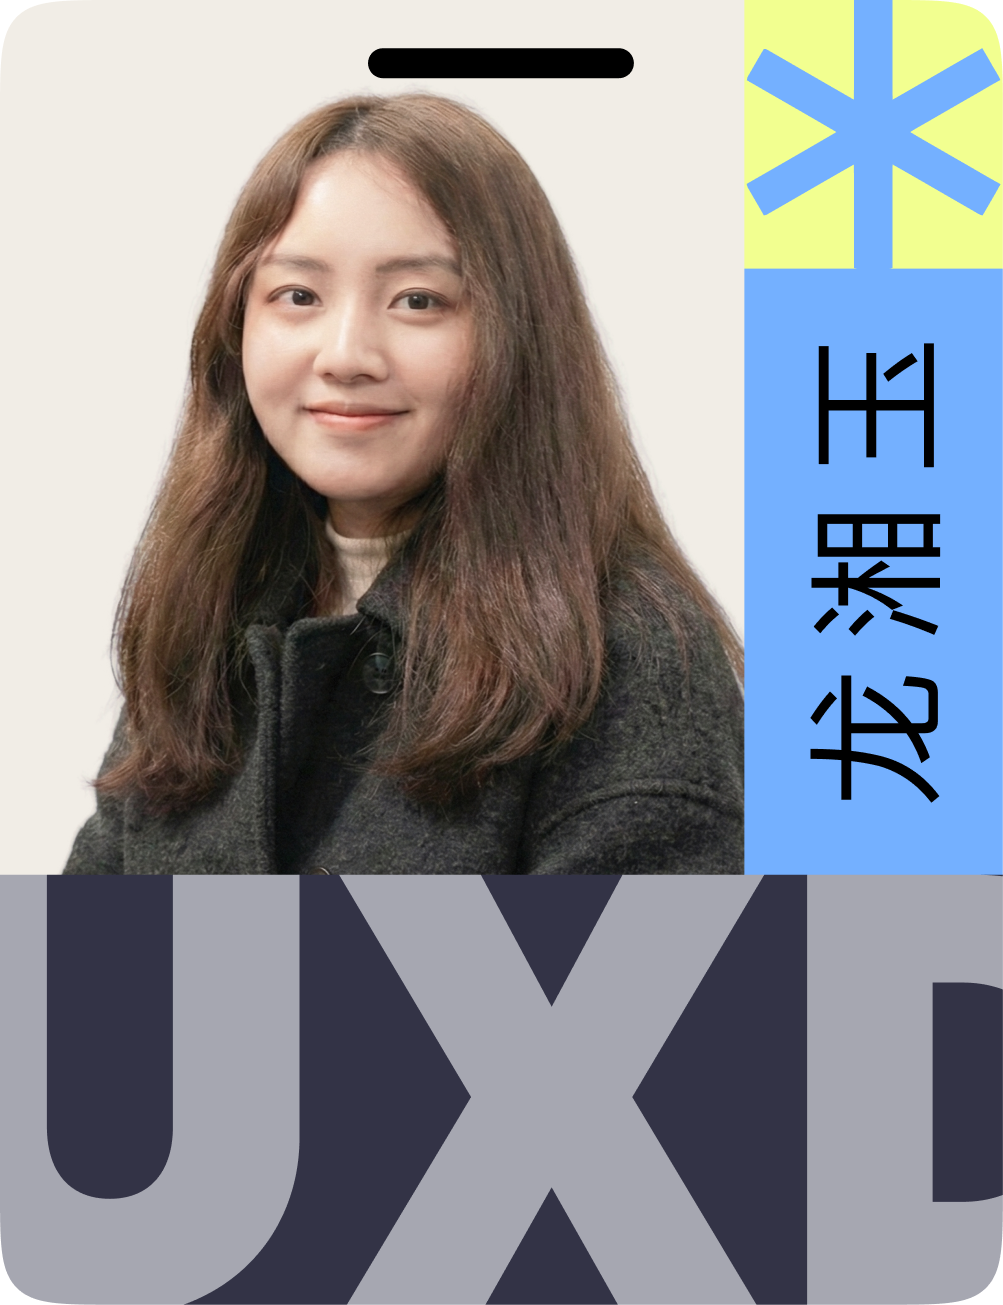
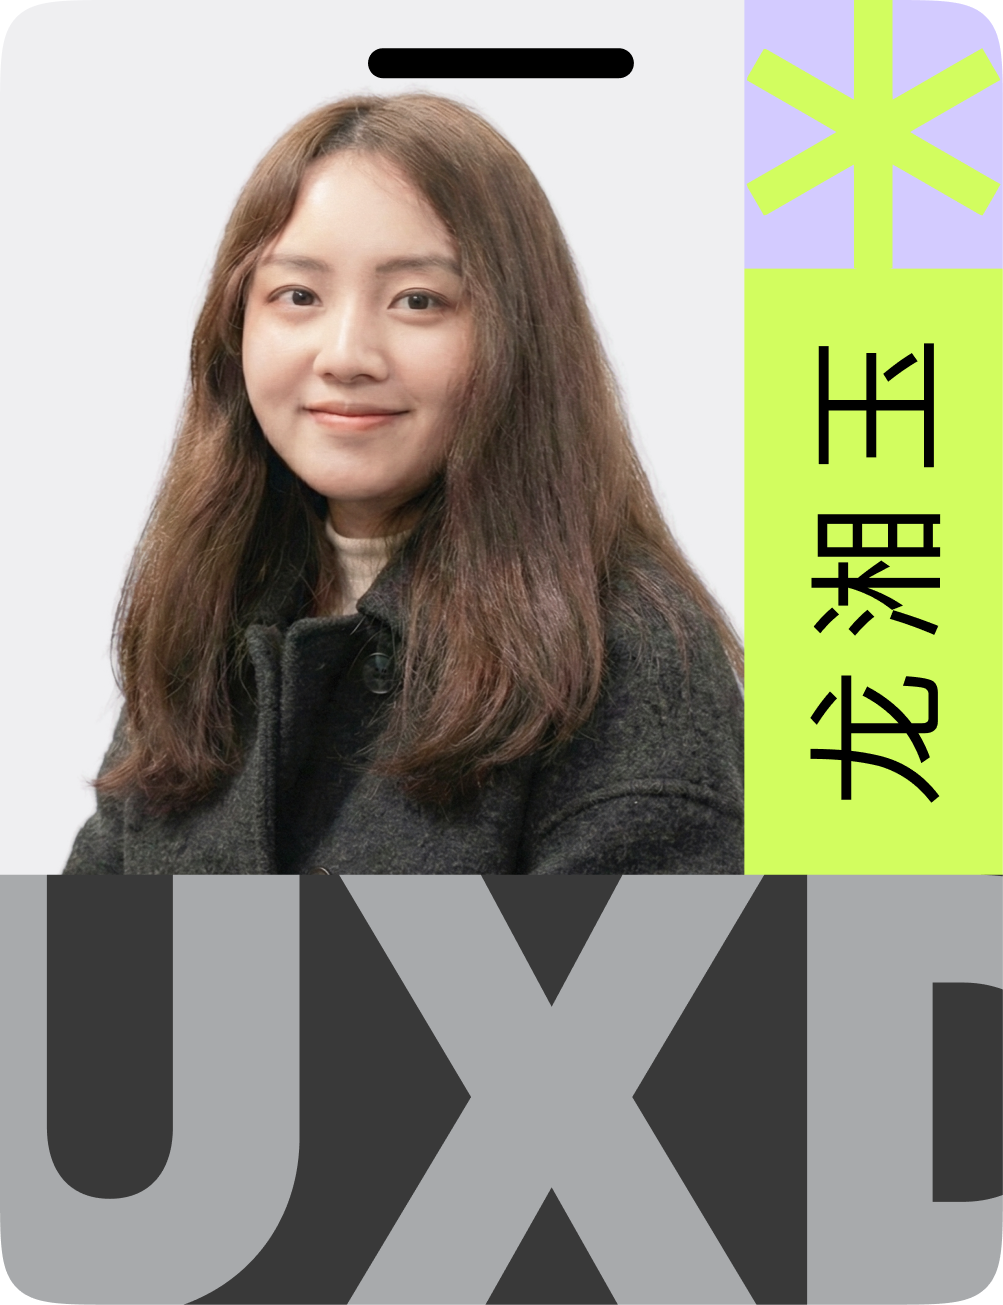
微调“当地时间”轻拟物效果

Changed region(s): [[0.7418, 0.0, 1.0, 0.6743]]

diff --git a/index.html b/index.html
@@ -89,10 +89,10 @@
           </article>
         </div>
       </section>
-      <div class="hero-divider" aria-hidden="true">
+      <div class="hero-divider reveal" aria-hidden="true">
         <span>Portfolio 2026</span>
       </div>
-      <section class="about-bento-section" id="about" aria-label="关于我">
+      <section class="about-bento-section reveal" id="about" aria-label="关于我">
         <div class="section-eyebrow about-bento-heading">关于我的一点点</div>
         <div class="about-bento-inner">
           <article class="about-bento-card about-bento-card-tall about-bento-card-method">
@@ -149,11 +149,11 @@
                   <span class="about-ai-tool"><span class="about-ai-tool-name">Blender</span><span class="about-ai-icon"><img src="./assets/tool-icons/Blender.png" alt="" /></span></span>
                   <span class="about-ai-tool"><span class="about-ai-tool-name">C4D</span><span class="about-ai-icon"><img src="./assets/tool-icons/C4D.png" alt="" /></span></span>
                   <span class="about-ai-tool"><span class="about-ai-tool-name">Swift UI</span><span class="about-ai-icon"><img src="./assets/tool-icons/Swift%20UI.png" alt="" /></span></span>
-                  <span class="about-ai-tool"><span class="about-ai-tool-name">CSS</span><span class="about-ai-icon"><img src="./assets/tool-icons/css.svg" alt="" /></span></span>
+                  <span class="about-ai-tool"><span class="about-ai-tool-name">Three.js</span><span class="about-ai-icon"><img src="./assets/tool-icons/threejs.png" alt="" /></span></span>
+                  <span class="about-ai-tool"><span class="about-ai-tool-name">Comfy</span><span class="about-ai-icon"><img src="./assets/tool-icons/Comfy.png" alt="" /></span></span>
+                  <span class="about-ai-tool"><span class="about-ai-tool-name">Codex</span><span class="about-ai-icon"><img src="./assets/tool-icons/Codex.png" alt="" /></span></span>
                   <span class="about-ai-tool"><span class="about-ai-tool-name">Vercel</span><span class="about-ai-icon"><img src="./assets/tool-icons/Vercel.png" alt="" /></span></span>
                   <span class="about-ai-tool"><span class="about-ai-tool-name">Cursor</span><span class="about-ai-icon"><img src="./assets/tool-icons/cursor.png" alt="" /></span></span>
-                  <span class="about-ai-tool"><span class="about-ai-tool-name">Java Script</span><span class="about-ai-icon"><img src="./assets/tool-icons/javascript.png" alt="" /></span></span>
-                  <span class="about-ai-tool"><span class="about-ai-tool-name">Codex</span><span class="about-ai-icon"><img src="./assets/tool-icons/Codex.png" alt="" /></span></span>
                 </div>
               </div>
             </div>
@@ -241,7 +241,7 @@
                 <strong>BBHust</strong>
                 <span>Hust 校园论坛</span>
                 <div class="about-grounded-tags">
-                  <small>4.0 ★</small>
+                  <small class="about-grounded-rating">4.0 <svg width="11" height="11" viewBox="0 0 11 11" fill="none" xmlns="http://www.w3.org/2000/svg" aria-hidden="true"><path d="M4.28205 0.655613C4.8291 -0.218532 6.10239 -0.218532 6.64944 0.655613L7.49026 1.99918C7.6819 2.30541 7.98476 2.52545 8.33522 2.61308L9.87286 2.99756C10.8733 3.24771 11.2667 4.45869 10.6044 5.24909L9.58644 6.46394C9.35442 6.74083 9.23874 7.09687 9.2637 7.45725L9.37319 9.03844C9.44442 10.0672 8.41431 10.8156 7.45793 10.43L5.98796 9.83722C5.65292 9.70212 5.27857 9.70212 4.94353 9.83722L3.47356 10.43C2.51718 10.8156 1.48707 10.0672 1.5583 9.03844L1.66779 7.45725C1.69275 7.09687 1.57706 6.74083 1.34505 6.46394L0.327066 5.24909C-0.335247 4.45869 0.058221 3.24771 1.05863 2.99756L2.59626 2.61308C2.94672 2.52545 3.24959 2.30541 3.44123 1.99918L4.28205 0.655613Z" fill="#3A3A3A"/></svg></small>
                   <small>社交</small>
                 </div>
               </div>
@@ -304,7 +304,7 @@
           </article>
         </div>
       </section>
-      <section class="works-showcase" id="works">
+      <section class="works-showcase reveal" id="works">
         <div class="works-showcase-inner">
           <div class="section-eyebrow">近期作品</div>
           <div class="works-grid">
@@ -435,7 +435,7 @@
 
           </div>
 
-          <section class="knowledge-section" id="knowledge" aria-label="个人知识库">
+          <section class="knowledge-section reveal" id="knowledge" aria-label="个人知识库">
             <div class="section-eyebrow knowledge-heading">个人知识库</div>
             <div class="knowledge-list">
               <button class="knowledge-item" type="button" data-knowledge-entry="001" data-cursor-icon="view">
@@ -483,7 +483,7 @@
         </div>
       </section>
 
-      <section class="placeholder-section" id="contact">
+      <section class="placeholder-section reveal" id="contact">
         <div class="contact-footer">
           <p class="contact-footer-eyebrow">欢迎联系我</p>
           <div class="contact-footer-layout">

diff --git a/script.js b/script.js
@@ -19,6 +19,8 @@ const guestbookList = document.querySelector('[data-guestbook-list]');
 const guestbookPaper = document.querySelector('[data-guestbook-paper]');
 const guestbookSubmitTrigger = document.querySelector('[data-guestbook-submit-trigger]');
 const aiDock = document.querySelector('[data-ai-dock]');
+const aiToolCard = document.querySelector('.about-bento-card-ai');
+const aiToolRows = [...document.querySelectorAll('.about-ai-tools-row')];
 const interestCard = document.querySelector('[data-interest-card]');
 const interestStage = document.querySelector('[data-interest-stage]');
 const interestLabels = [...document.querySelectorAll('[data-interest-label]')];
@@ -63,6 +65,7 @@ const versionUpdate = document.querySelector('[data-version-update]');
 const versionUpdateValue = document.querySelector('[data-version-update-value]');
 const versionUpdateRefresh = document.querySelector('[data-version-update-refresh]');
 const cursorIcon = document.querySelector('.custom-cursor-icon');
+const revealItems = [...document.querySelectorAll('.reveal')];
 const aiChatToggle = document.querySelector('[data-ai-chat-toggle]');
 const aiAgentCard = document.querySelector('[data-agent-chat-card]');
 const aiChatSidebar = document.querySelector('[data-ai-chat-sidebar]');
@@ -180,6 +183,98 @@ const showSiteToast = (message) => {
     siteToast.classList.remove('is-visible');
   }, 1400);
 };
+
+aiToolRows.forEach((row) => {
+  if (row.dataset.marqueeReady === 'true') {
+    return;
+  }
+
+  row.dataset.marqueeReady = 'true';
+  [...row.children].forEach((item) => {
+    const clone = item.cloneNode(true);
+    clone.setAttribute('aria-hidden', 'true');
+    row.append(clone);
+  });
+});
+
+if (aiToolCard && aiToolRows.length) {
+  const marqueeStates = aiToolRows.map((row, index) => ({
+    row,
+    halfWidth: Math.max(1, row.scrollWidth / 2),
+    progress: index === 1 ? Math.max(1, row.scrollWidth / 2) : 0,
+    velocity: 0,
+    targetVelocity: 0,
+    direction: index === 1 ? 1 : -1,
+    baseOffset: index === 1 ? -12 : 0,
+  }));
+  let marqueeFrame = 0;
+  let lastMarqueeTime = 0;
+
+  const wrapMarquee = (value, size) => ((value % size) + size) % size;
+
+  const updateMarqueeWidths = () => {
+    marqueeStates.forEach((state) => {
+      state.halfWidth = Math.max(1, state.row.scrollWidth / 2);
+    });
+  };
+
+  const renderMarquee = (state) => {
+    const wrapped = wrapMarquee(state.progress, state.halfWidth);
+    const x =
+      state.direction < 0
+        ? -wrapped + state.baseOffset
+        : -state.halfWidth + wrapped + state.baseOffset;
+
+    state.row.style.setProperty('--marquee-x', `${x}px`);
+  };
+
+  const tickMarquee = (time) => {
+    const delta = lastMarqueeTime ? Math.min(0.04, (time - lastMarqueeTime) / 1000) : 0;
+    lastMarqueeTime = time;
+    let keepRunning = false;
+
+    marqueeStates.forEach((state) => {
+      state.velocity += (state.targetVelocity - state.velocity) * 0.075;
+
+      if (Math.abs(state.velocity) < 0.08 && state.targetVelocity === 0) {
+        state.velocity = 0;
+      }
+
+      state.progress += state.velocity * delta;
+      renderMarquee(state);
+
+      if (state.velocity !== 0 || state.targetVelocity !== 0) {
+        keepRunning = true;
+      }
+    });
+
+    if (keepRunning) {
+      marqueeFrame = window.requestAnimationFrame(tickMarquee);
+    } else {
+      marqueeFrame = 0;
+      lastMarqueeTime = 0;
+    }
+  };
+
+  const startMarquee = () => {
+    if (!marqueeFrame) {
+      lastMarqueeTime = 0;
+      marqueeFrame = window.requestAnimationFrame(tickMarquee);
+    }
+  };
+
+  const setMarqueeActive = (isActive) => {
+    marqueeStates.forEach((state) => {
+      state.targetVelocity = isActive ? 54 : 0;
+    });
+    startMarquee();
+  };
+
+  marqueeStates.forEach(renderMarquee);
+  aiToolCard.addEventListener('mouseenter', () => setMarqueeActive(true));
+  aiToolCard.addEventListener('mouseleave', () => setMarqueeActive(false));
+  window.addEventListener('resize', updateMarqueeWidths);
+}
 
 const rgbToHsl = (r, g, b) => {
   const rn = r / 255;
@@ -2886,6 +2981,28 @@ if (hero && heroTitle) {
   );
 
   heroObserver.observe(hero);
+}
+
+if (revealItems.length) {
+  const prefersReducedMotion = window.matchMedia('(prefers-reduced-motion: reduce)').matches;
+
+  if (prefersReducedMotion) {
+    revealItems.forEach((item) => item.classList.add('show'));
+  } else {
+    const revealObserver = new IntersectionObserver(
+      (entries) => {
+        entries.forEach((entry) => {
+          entry.target.classList.toggle('show', entry.isIntersecting);
+        });
+      },
+      {
+        rootMargin: '0px 0px 12% 0px',
+        threshold: 0.04,
+      }
+    );
+
+    revealItems.forEach((item) => revealObserver.observe(item));
+  }
 }
 
 updateBounds();

diff --git a/styles.css b/styles.css
@@ -112,6 +112,17 @@ main {
   transform: translateX(var(--layout-shift-x));
 }
 
+.reveal {
+  opacity: 0;
+  transform: translateY(16px);
+  transition: opacity 0.6s ease, transform 0.6s ease;
+}
+
+.reveal.show {
+  opacity: 1;
+  transform: translateY(0);
+}
+
 button,
 a,
 [data-card],
@@ -214,6 +225,14 @@ a,
 
   .custom-cursor {
     display: none;
+  }
+}
+
+@media (prefers-reduced-motion: reduce) {
+  .reveal {
+    opacity: 1;
+    transform: none;
+    transition: none;
   }
 }
 
@@ -546,7 +565,7 @@ a,
 .hero-divider {
   position: relative;
   width: min(calc(100% - (var(--page-gutter) * 2)), var(--content-width));
-  margin: 12px auto 62px;
+  margin: -42px auto 18px;
   padding-inline: var(--content-inline-pad);
   display: grid;
   place-items: center;
@@ -575,8 +594,8 @@ a,
 
 .about-bento-section {
   --about-bento-gap: 8px;
-  padding: 32px var(--page-gutter) 52px;
-  background: #f0f0f2;
+  padding: 0 var(--page-gutter) 92px;
+  background: #ffffff;
 }
 
 .section-eyebrow {
@@ -614,7 +633,9 @@ a,
   border: 0;
   border-radius: 28px;
   background: #ffffff;
-  box-shadow: none;
+  box-shadow:
+    0 10px 28px rgba(12, 12, 12, 0.04),
+    0 1px 6px rgba(12, 12, 12, 0.034);
   transition: background-color 0.24s ease;
 }
 
@@ -689,11 +710,19 @@ a,
   grid-template-rows: 88px minmax(0, 1fr);
   align-items: start;
   padding: 8px;
-  background: #d3cbff;
+  border-radius: 28.626px;
+  border: 2px solid #e6e1fc;
+  border: 2px solid color(display-p3 0.8968 0.8824 0.9784);
+  background: #d5cbff;
+  background: color(display-p3 0.8276 0.7971 1);
+  box-shadow:
+    -4px -4px 4px 0 #b8adea inset,
+    4px 4px 4px 0 rgba(255, 255, 255, 0.4) inset;
 }
 
 .about-bento-card-time:hover {
-  background: #d3cbff;
+  background: #d5cbff;
+  background: color(display-p3 0.8276 0.7971 1);
 }
 
 .about-time-display {
@@ -1334,10 +1363,12 @@ a,
   align-items: center;
   gap: 6px;
   width: max-content;
+  transform: translateX(var(--marquee-x, 0px));
+  will-change: transform;
 }
 
 .about-ai-tools-row:nth-child(2) {
-  transform: translateX(-12px);
+  --marquee-x: -12px;
 }
 
 .about-ai-icon {
@@ -2035,6 +2066,12 @@ a,
   line-height: 1;
 }
 
+.about-grounded-rating {
+  display: inline-flex;
+  align-items: center;
+  gap: 4px;
+}
+
 .about-app-modal {
   position: fixed;
   inset: 0;
@@ -2670,13 +2707,14 @@ a,
   --ai-button-fill: linear-gradient(#ffffff, #ffffff);
   --ai-gradient-border: conic-gradient(
     from var(--border-angle),
-    transparent 9%,
-    #69B7FF 20%,
-    #72F0DD 34%,
-    #D2FD5F 48%,
-    #FFFFFF 57%,
-    #FF7AB8 72%,
-    #9B7CFF 88%,
+    transparent 8%,
+    #d3cbff 18%,
+    #8b6cff 31%,
+    #ffffff 42%,
+    #d2fd5f 56%,
+    #b7ff2a 70%,
+    #ffffff 80%,
+    #c4a8f5 91%,
     transparent 100%
   );
   background:
